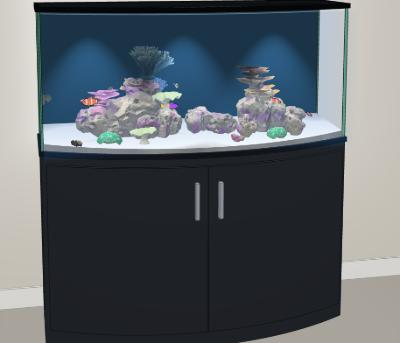
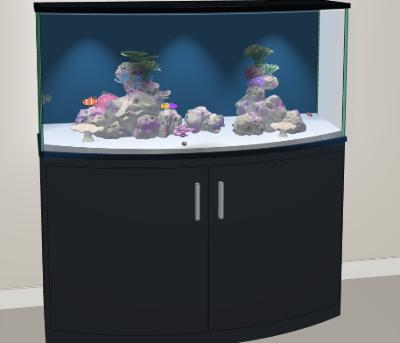
Lane I: live rock creased shading (edges over 55 deg crisp), reef rock stacked to half the water; 72 gal reef re-staged

diff --git a/src/render/coral3d.ts b/src/render/coral3d.ts
@@ -3,7 +3,7 @@
 // light and clips them at the glass; this file only builds the shape, its unlit colours and its grit (shader detail)
 // coordinates. Base on y = 0, centred on the anchor. Size = the piece's width (live rock: its length).
 import * as THREE from 'three';
-import { mergeGeometries, mergeVertices } from 'three/examples/jsm/utils/BufferGeometryUtils.js';
+import { mergeGeometries, mergeVertices, toCreasedNormals } from 'three/examples/jsm/utils/BufferGeometryUtils.js';
 import { rng } from '../art/paint';
 import { stoneDims } from '../scene/items';
 import { clean, grit, paint, waves } from './items';
@@ -14,6 +14,8 @@ const V = (x: number, y: number, z: number) => new THREE.Vector3(x, y, z);
 const C = (hex: string) => new THREE.Color(hex);
 /** Grit kinds (see GRIT in render/items.ts): 3 pitted rock, 11 hard coral (corallite dots), 12 soft tissue (polyp fuzz). */
 const ROCK = 3, HARD = 11, SOFT = 12;
+/** Live rock: edges sharper than this stay sharp, the rest is shaded smooth. */
+const ROCK_CREASE = 55 * Math.PI / 180;
 
 /** Smooth normals across a generator's seams (sphere / lathe edges), keeping it indexed so parts merge. */
 function smooth(g: G) {
@@ -34,7 +36,7 @@ function stand(parts: G[]) {
 // ---------- Live rock ----------
 /**
  * Porous reef rock: a few overlapping craggy lumps, cream under patches of pink and purple coralline algae. Angular, not
- * rounded (Nathan 2026-10-14): flat facets (no shared normals), each lump broken by a few flat faces with sharp edges,
+ * rounded (Nathan 2026-10-14): each lump broken by a few flat faces with sharp edges,
  * and pitted with round holes of many sizes that go dark inside, besides the channels.
  */
 function rockGeo(r: R, l: number, h: number, w: number) {
@@ -45,7 +47,7 @@ function rockGeo(r: R, l: number, h: number, w: number) {
     const faces = Array.from({ length: 5 + Math.floor(r() * 4) }, () => ({ n: V(r() - 0.5, r() * 0.9 - 0.25, r() - 0.5).normalize(), o: 0.6 + r() * 0.25 }));
     // pits: round holes over the surface, a few big ones and many small
     const pits = Array.from({ length: 26 + Math.floor(r() * 14) }, (_, i) => ({ d: V(r() - 0.5, r() - 0.5, r() - 0.5).normalize(), w: i < 5 ? 0.2 + r() * 0.12 : 0.07 + r() * 0.1, k: 0.18 + r() * 0.22 }));
-    const g: G = new THREE.IcosahedronGeometry(1, 4); // not indexed: every triangle keeps its own flat normal
+    const g: G = new THREE.IcosahedronGeometry(1, 4); // not indexed: creased normals below decide what is sharp
     g.deleteAttribute('normal'); g.deleteAttribute('uv');
     const p = g.attributes.position, dent = new Float32Array(p.count);
     for (let i = 0; i < p.count; i++) {
@@ -70,7 +72,9 @@ function rockGeo(r: R, l: number, h: number, w: number) {
   g.computeBoundingBox();
   const bb = g.boundingBox!, cx = (bb.max.x + bb.min.x) / 2, cz = (bb.max.z + bb.min.z) / 2;
   for (let i = 0; i < p.count; i++) p.setXYZ(i, (p.getX(i) - cx) * l / (bb.max.x - bb.min.x), (p.getY(i) - bb.min.y) * h / (bb.max.y - bb.min.y), (p.getZ(i) - cz) * w / (bb.max.z - bb.min.z));
-  g.computeVertexNormals();
+  // smooth across the small triangles, sharp across the broken faces' edges and pit rims (Nathan 2026-10-14: angular
+  // yes, but the triangles read too large and geometric with every one flat)
+  toCreasedNormals(g, ROCK_CREASE);
   const base = C(['#b8a687', '#ad9c80', '#c2b294'][Math.floor(r() * 3)]), cor = [C('#8e4d86'), C('#c4698f'), C('#a65a9c')][Math.floor(r() * 3)];
   const patch = waves(r, 5), patch2 = waves(r, 4), algae = C('#6f6b45');
   paint(g, (q, i) => {

diff --git a/src/scene/items.ts b/src/scene/items.ts
@@ -532,10 +532,12 @@ export function starterItems(S: TankSetup): Item[] {
         const a = (i / n) * Math.PI * 2 + r() * 0.6, dist = s0 * (0.55 + r() * 0.3) * (1 + (wide - 1) * r());
         rocks.push(put('liverock', clamp(cx + Math.cos(a) * dist, 20, L - 20), clamp(cz + Math.sin(a) * dist * 0.55 / Math.sqrt(wide), 20, D - 20), s0 * (0.6 + r() * 0.35), tip('liverock')));
       }
-      // stacked: one or two rocks up on the base, smaller as they go
+      // stacked: one or two rocks up on the base, smaller as they go, and more until the main island stands about half
+      // the water deep (a smaller island a little less), so a big tank's reef is not a low strip (Nathan 2026-10-14)
+      const want = ((S.water.on ? H * S.water.level : H) - sub(cx, cz)) * 0.5 * (f.k < 1 ? 0.85 : 1);
       let top = itemDims(rocks[0])[1] * 0.75;
-      for (let i = 0, n = dens < 0.5 ? 1 : 1 + Math.floor(r() * 2); i < n && room(cx, cz, top) > 60; i++) {
-        const it = put('liverock', rocks[0].x + (r() - 0.5) * s0 * 0.4, rocks[0].depth + (r() - 0.5) * s0 * 0.2, s0 * (0.75 - 0.15 * i), { lift: Math.round(top), ...tip('liverock', 0.5) }, true);
+      for (let i = 0, n = dens < 0.5 ? 1 : 1 + Math.floor(r() * 2); i < 6 && (i < n || top < want) && room(cx, cz, top) > 60; i++) {
+        const it = put('liverock', rocks[0].x + (r() - 0.5) * s0 * 0.4, rocks[0].depth + (r() - 0.5) * s0 * 0.2, s0 * Math.max(0.45, 0.75 - 0.1 * i), { lift: Math.round(top), ...tip('liverock', 0.5) }, true);
         rocks.push(it); top += itemDims(it)[1] * 0.7;
       }
       // corals on the rock: each on a rock's top (the stacked ones first), a little off its middle
